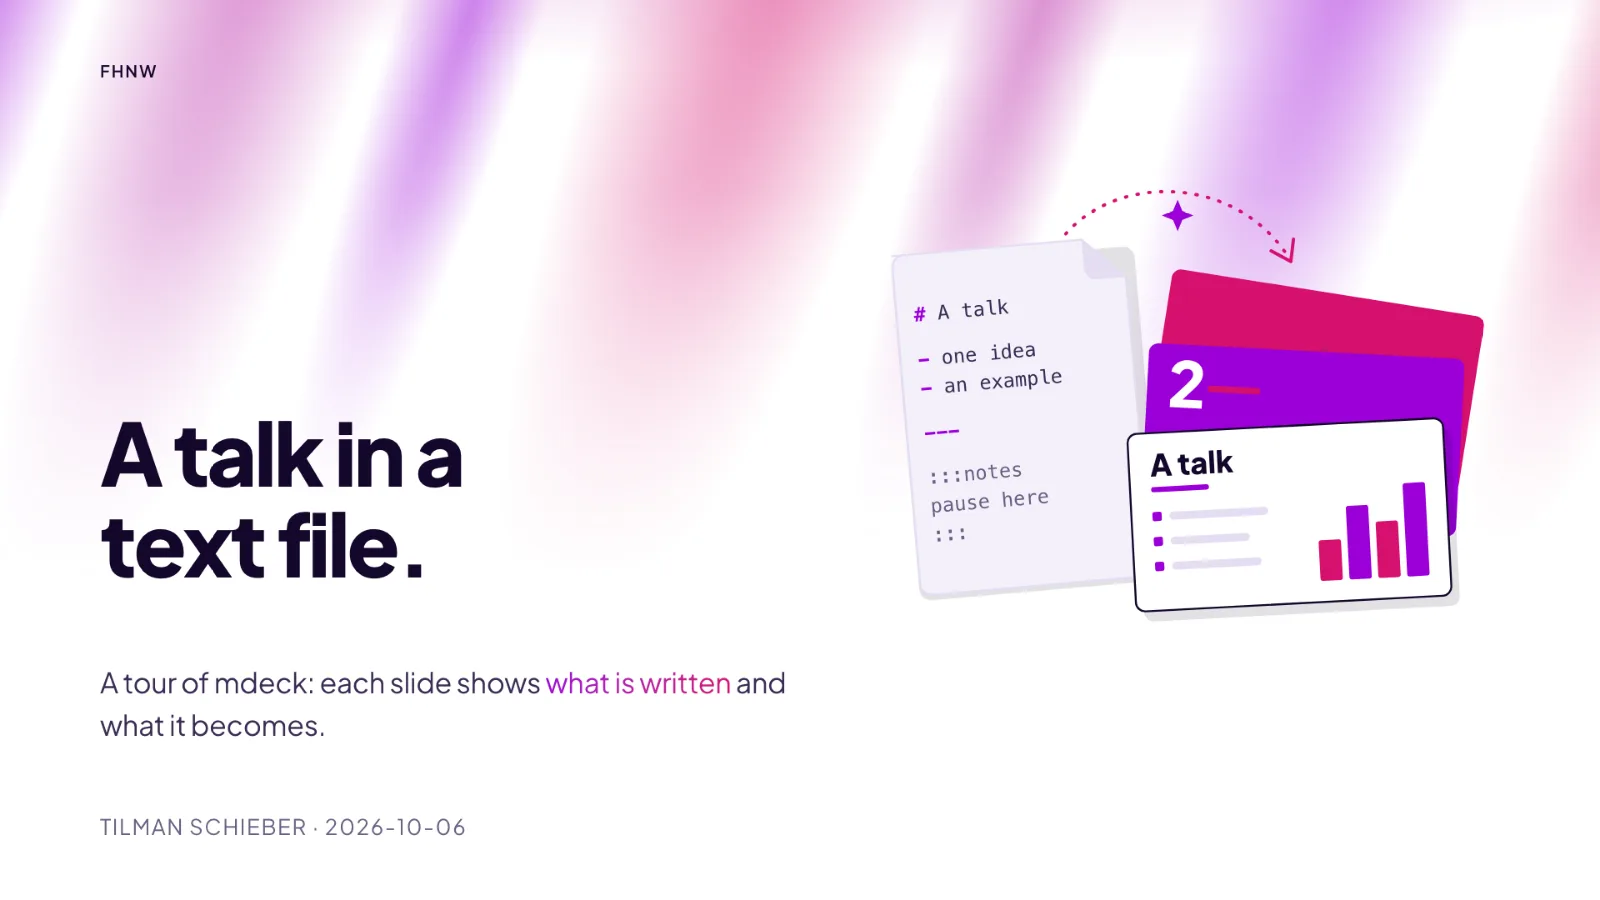
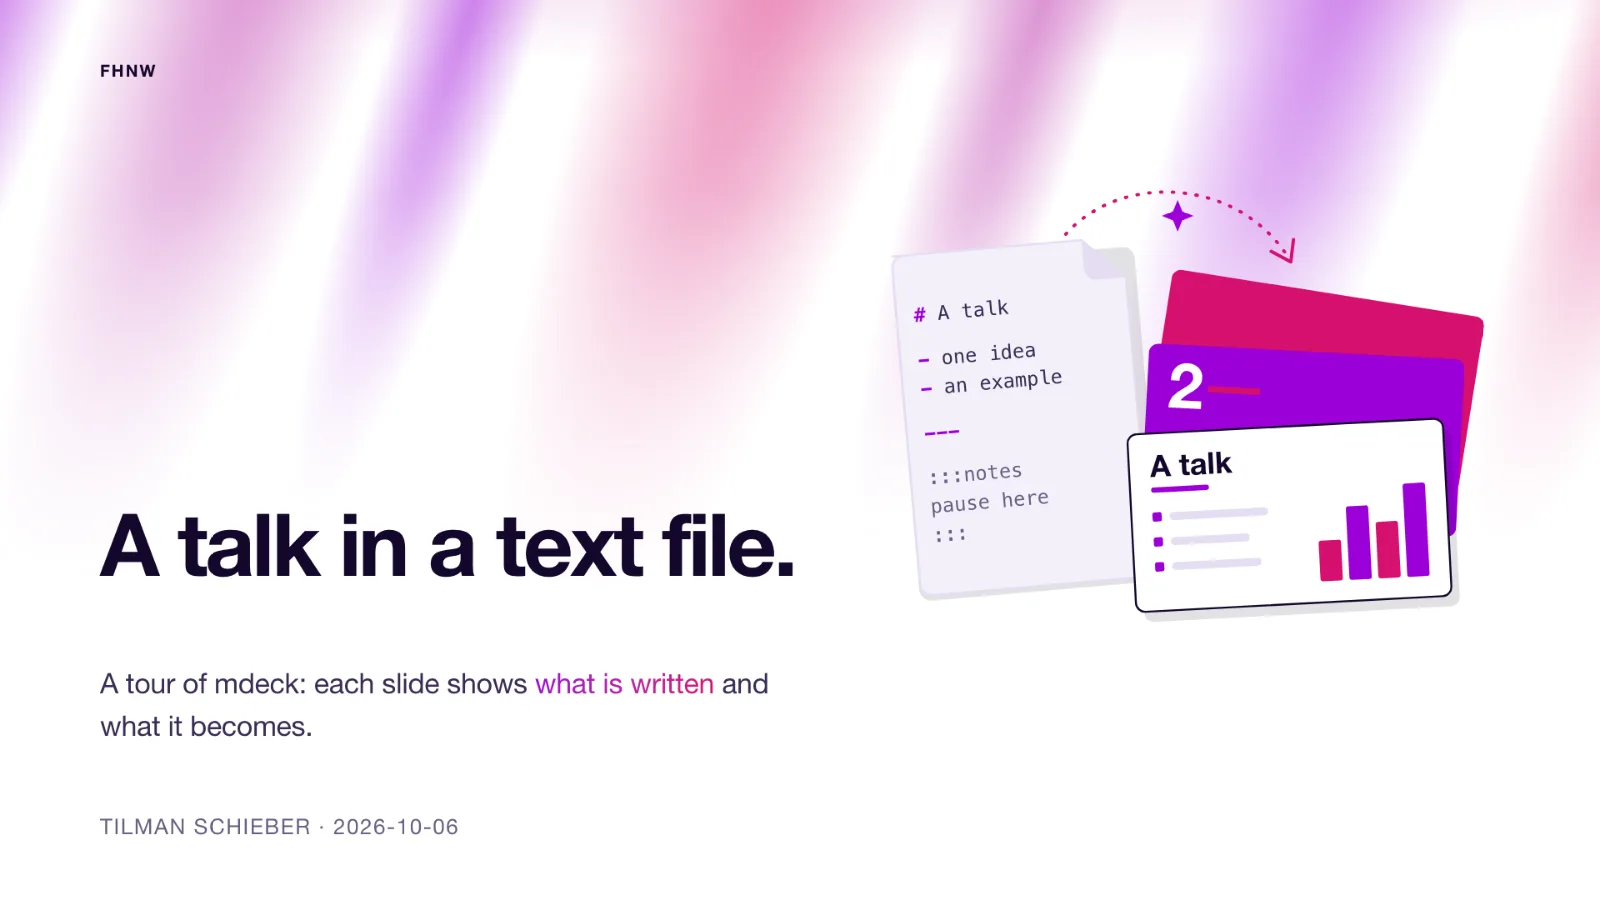
Show the palette sheets per theme in tabs, light and dark, with chapter slides
The contact sheets now show each theme's first chapter slide, its showpiece,
in every palette. One sheet per theme and appearance, two slides a row, in
a tab group for light and one for dark, so each sheet gets the full width.
The docs build generates the tabs from the registered themes.

diff --git a/docs/site/build.js b/docs/site/build.js
@@ -11,7 +11,8 @@ import 'prismjs/components/prism-jsx.js'
 import 'prismjs/components/prism-bash.js'
 import { pages } from './pages.js'
 import { frameworkRoot as projectRoot } from '../../src/paths.js'
-import { loadRegistry } from '../../src/extensions/discover.js'
+import { loadRegistry, manifestsOf } from '../../src/extensions/discover.js'
+import { palettesFor } from '../../src/extensions/tokens.js'
 import { createRequire } from 'node:module'
 
 const REPO = 'https://gitlab.fhnw.ch/tilman.schieber/mdeck'
@@ -19,7 +20,7 @@ const LINKS = [['Repository', REPO], ['Releases', `${REPO}/-/releases`], ['Packa
 const version = createRequire(import.meta.url)('../../package.json').version
 const projectLinks = () => LINKS.map(([label, href]) => `<a href="${href}" rel="noopener">${label}</a>`).join('')
 import { parseSlides } from '../../src/core/parseSlides.js'
-import { readFileSync } from 'node:fs'
+import { readFileSync, existsSync } from 'node:fs'
 
 export const docsRoot = dirname(fileURLToPath(import.meta.url))
 const exec = promisify(execFile)
@@ -54,6 +55,22 @@ function preview(page) {
   </figure>`
 }
 
+// <!-- theme-sheets light --> (or dark) becomes one tab per theme with a
+// contact sheet of its chapter slide in every palette (tools/theme-images.mjs).
+function themeSheets(appearance) {
+  const registry = loadRegistry(exampleFiles['first-talk'])
+  const palettes = manifestsOf(registry, 'palette')
+  const themes = Object.values(manifestsOf(registry, 'theme'))
+    .filter(theme => palettesFor(theme, palettes).length > 1 && existsSync(resolve(docsRoot, `images/themes/${theme.id}-${appearance}.webp`)))
+  const id = theme => `sheet-${appearance}-${theme.id}`
+  const tabs = themes.map((theme, i) => `<button type="button" role="tab" id="${id(theme)}-tab" aria-controls="${id(theme)}" aria-selected="${i === 0}">${escape(theme.title)}</button>`).join('')
+  const panels = themes.map(theme => {
+    const src = `images/themes/${theme.id}-${appearance}.webp`
+    return `<div class="theme-sheet" role="tabpanel" id="${id(theme)}" aria-labelledby="${id(theme)}-tab"><a href="${src}"><img src="${src}" alt="The ${escape(theme.title)} theme's chapter slide in every palette, ${appearance}" loading="lazy"></a></div>`
+  }).join('')
+  return `<div class="theme-sheets" data-tabs><div class="theme-tabs" role="tablist" aria-label="Theme, ${appearance}">${tabs}</div>${panels}</div>`
+}
+
 export function renderPage(page, markdown) {
   const headings = [], used = new Map()
   let title = page.title
@@ -86,6 +103,7 @@ export function renderPage(page, markdown) {
   }
   const parser = new Marked({ renderer })
   const article = parser.parse(markdown).replace('<!-- preview -->', preview(page))
+    .replace(/<!-- theme-sheets (light|dark) -->/g, (_, appearance) => themeSheets(appearance))
   const index = pages.indexOf(page)
   const previous = pages[index - 1], next = pages[index + 1]
   const footerLinks = `${previous ? `<a href="${previous.slug}.html"><small>Previous guide</small>${escape(previous.title)}</a>` : '<span></span>'}${next ? `<a href="${next.slug}.html"><small>Next guide</small>${escape(next.title)}</a>` : ''}`

diff --git a/docs/site/assets/site.js b/docs/site/assets/site.js
@@ -96,3 +96,28 @@ for (const example of document.querySelectorAll('[data-preview]')) {
     output.textContent = `Slide ${index + 1}`
   })
 }
+
+// Tabs: one panel at a time; without the script every panel shows.
+for (const group of document.querySelectorAll('[data-tabs]')) {
+  const tabs = [...group.querySelectorAll('[role="tab"]')]
+  const select = tab => {
+    for (const other of tabs) {
+      const selected = other === tab
+      other.setAttribute('aria-selected', String(selected))
+      other.tabIndex = selected ? 0 : -1
+      document.getElementById(other.getAttribute('aria-controls')).hidden = !selected
+    }
+  }
+  tabs.forEach(tab => tab.addEventListener('click', () => select(tab)))
+  group.querySelector('[role="tablist"]').addEventListener('keydown', event => {
+    const step = { ArrowRight: 1, ArrowLeft: -1 }[event.key]
+    const index = tabs.indexOf(document.activeElement)
+    if (index < 0) return
+    const next = step ? tabs[(index + step + tabs.length) % tabs.length] : event.key === 'Home' ? tabs[0] : event.key === 'End' ? tabs.at(-1) : null
+    if (!next) return
+    event.preventDefault()
+    select(next)
+    next.focus()
+  })
+  select(tabs.find(tab => tab.getAttribute('aria-selected') === 'true') ?? tabs[0])
+}

diff --git a/docs/site/assets/site.css b/docs/site/assets/site.css
@@ -151,3 +151,12 @@ blockquote p:last-child { margin: 0; }
 .footer-links { display: flex; gap: 14px; }
 .footer-links a { color: var(--secondary); text-decoration: none; }
 .footer-links a:hover { color: var(--blue); }
+
+/* Tabs for the theme contact sheets */
+.theme-sheets { margin: 20px 0 32px; }
+.theme-tabs { display: flex; flex-wrap: wrap; gap: 4px; border-bottom: 1px solid var(--rule); margin-bottom: 16px; }
+.theme-tabs [role="tab"] { font: inherit; font-size: 15px; color: var(--secondary); background: none; border: 0; border-bottom: 3px solid transparent; padding: 8px 14px; margin-bottom: -1px; cursor: pointer; }
+.theme-tabs [role="tab"]:hover { color: var(--ink); }
+.theme-tabs [role="tab"][aria-selected="true"] { color: var(--blue); border-bottom-color: var(--blue); font-weight: 600; }
+.theme-tabs [role="tab"]:focus-visible { outline: 2px solid var(--blue); outline-offset: 2px; border-radius: 4px; }
+.theme-sheet a { margin: 0; }

diff --git a/docs/site/content/appearance.md b/docs/site/content/appearance.md
@@ -116,27 +116,17 @@ Some slides use the other version on purpose: neue's statement slides are dark i
 
 ## Every theme in every palette
 
-The same content slide in each palette a theme offers, light and dark. The FHNW theme has only its own colours, so it is not shown here. Click a sheet to see it larger.
+The first chapter slide of the tour in each palette a theme offers. Choose a theme above the pictures; click a sheet to see it larger. The FHNW theme has only its own colours, so it is not shown here.
 
-### Neue
+Some themes turn their chapter slides around on purpose: aurora's are a night sky in a light talk, and light in a dark one.
 
-[![A content slide in the Neue theme with every palette, light and dark](images/themes/neue-palettes.webp)](images/themes/neue-palettes.webp)
+### Light
 
-### Aurora
+<!-- theme-sheets light -->
 
-[![A content slide in the Aurora theme with every palette, light and dark](images/themes/aurora-palettes.webp)](images/themes/aurora-palettes.webp)
+### Dark
 
-### Duet
-
-[![A content slide in the Duet theme with every palette, light and dark](images/themes/duet-palettes.webp)](images/themes/duet-palettes.webp)
-
-### Editorial
-
-[![A content slide in the Editorial theme with every palette, light and dark](images/themes/editorial-palettes.webp)](images/themes/editorial-palettes.webp)
-
-### Terminal
-
-[![A content slide in the Terminal theme with every palette, light and dark](images/themes/terminal-palettes.webp)](images/themes/terminal-palettes.webp)
+<!-- theme-sheets dark -->
 
 ## Try a look before saving it
 

diff --git a/CHANGELOG.md b/CHANGELOG.md
@@ -2,7 +2,7 @@
 
 ## Unreleased
 
-- The “Change the look” guide shows every theme: a large preview in its default look, and a contact sheet of each theme in every palette, light and dark (`npm run theme-images` renders them).
+- The “Change the look” guide shows every theme: a large preview in its default look, and, in a tab for each theme, its chapter slide in every palette, light and dark (`npm run theme-images` renders them).
 - SVG pictures can use the palette's colours (`var(--accent)` …): they are drawn inline and follow the theme, palette and light or dark, in slide text and as the picture of the title, chapter, image-text and full-bleed layouts. Local layouts get the same with `Picture` from `mdeck/layout`. The tour's title picture is such a drawing.
 - Fixed: on duet's title slide, emphasis in the subtitle took the background colour and disappeared; it now keeps the slide's text colour, underlined in the second accent, like the headline.
 - Fixed: a picture path shown inside a code example (`image: ./img/photo.jpg`, `![…](./img/photo.jpg)`) was replaced by the embedded picture in PDFs, `mdeck send` files and `--single-file` builds, and a large picture could make the PDF time out. Code examples now stay text.
